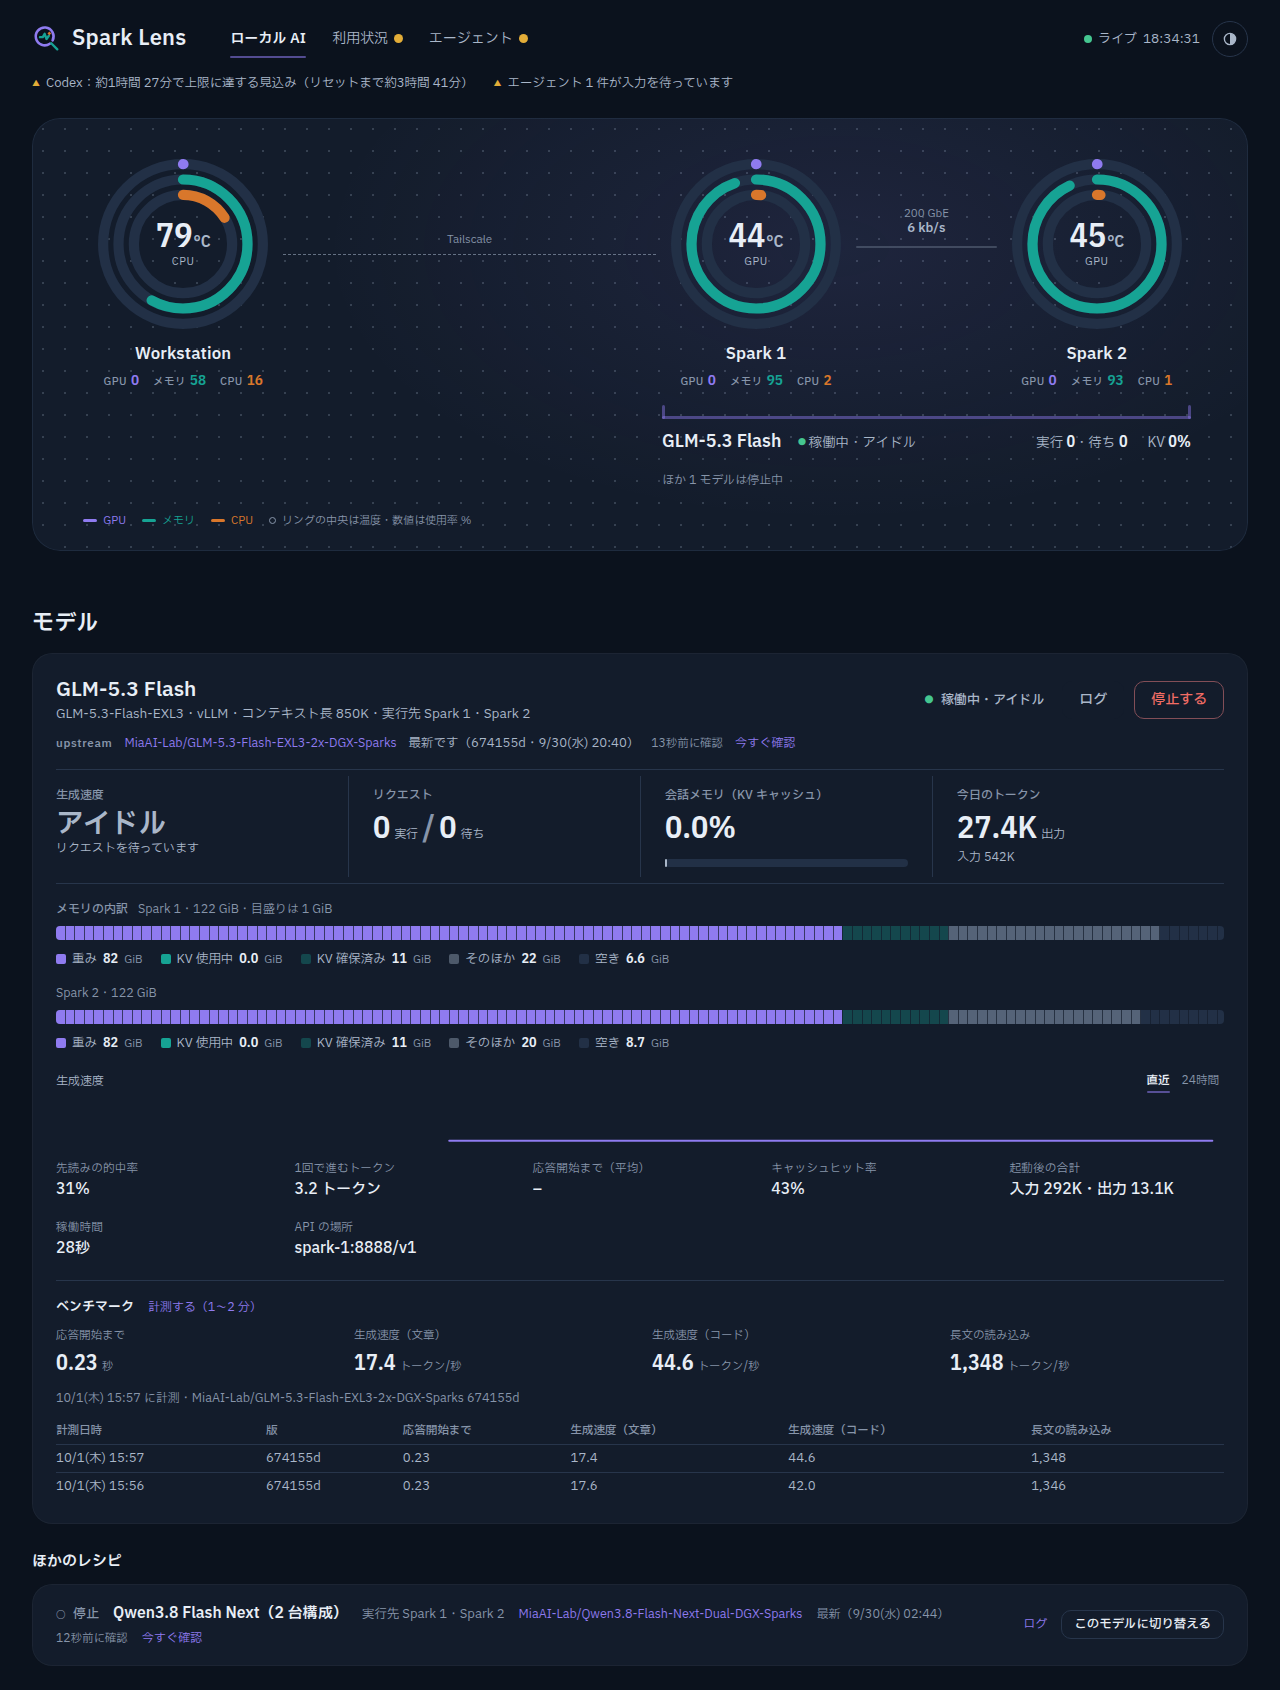
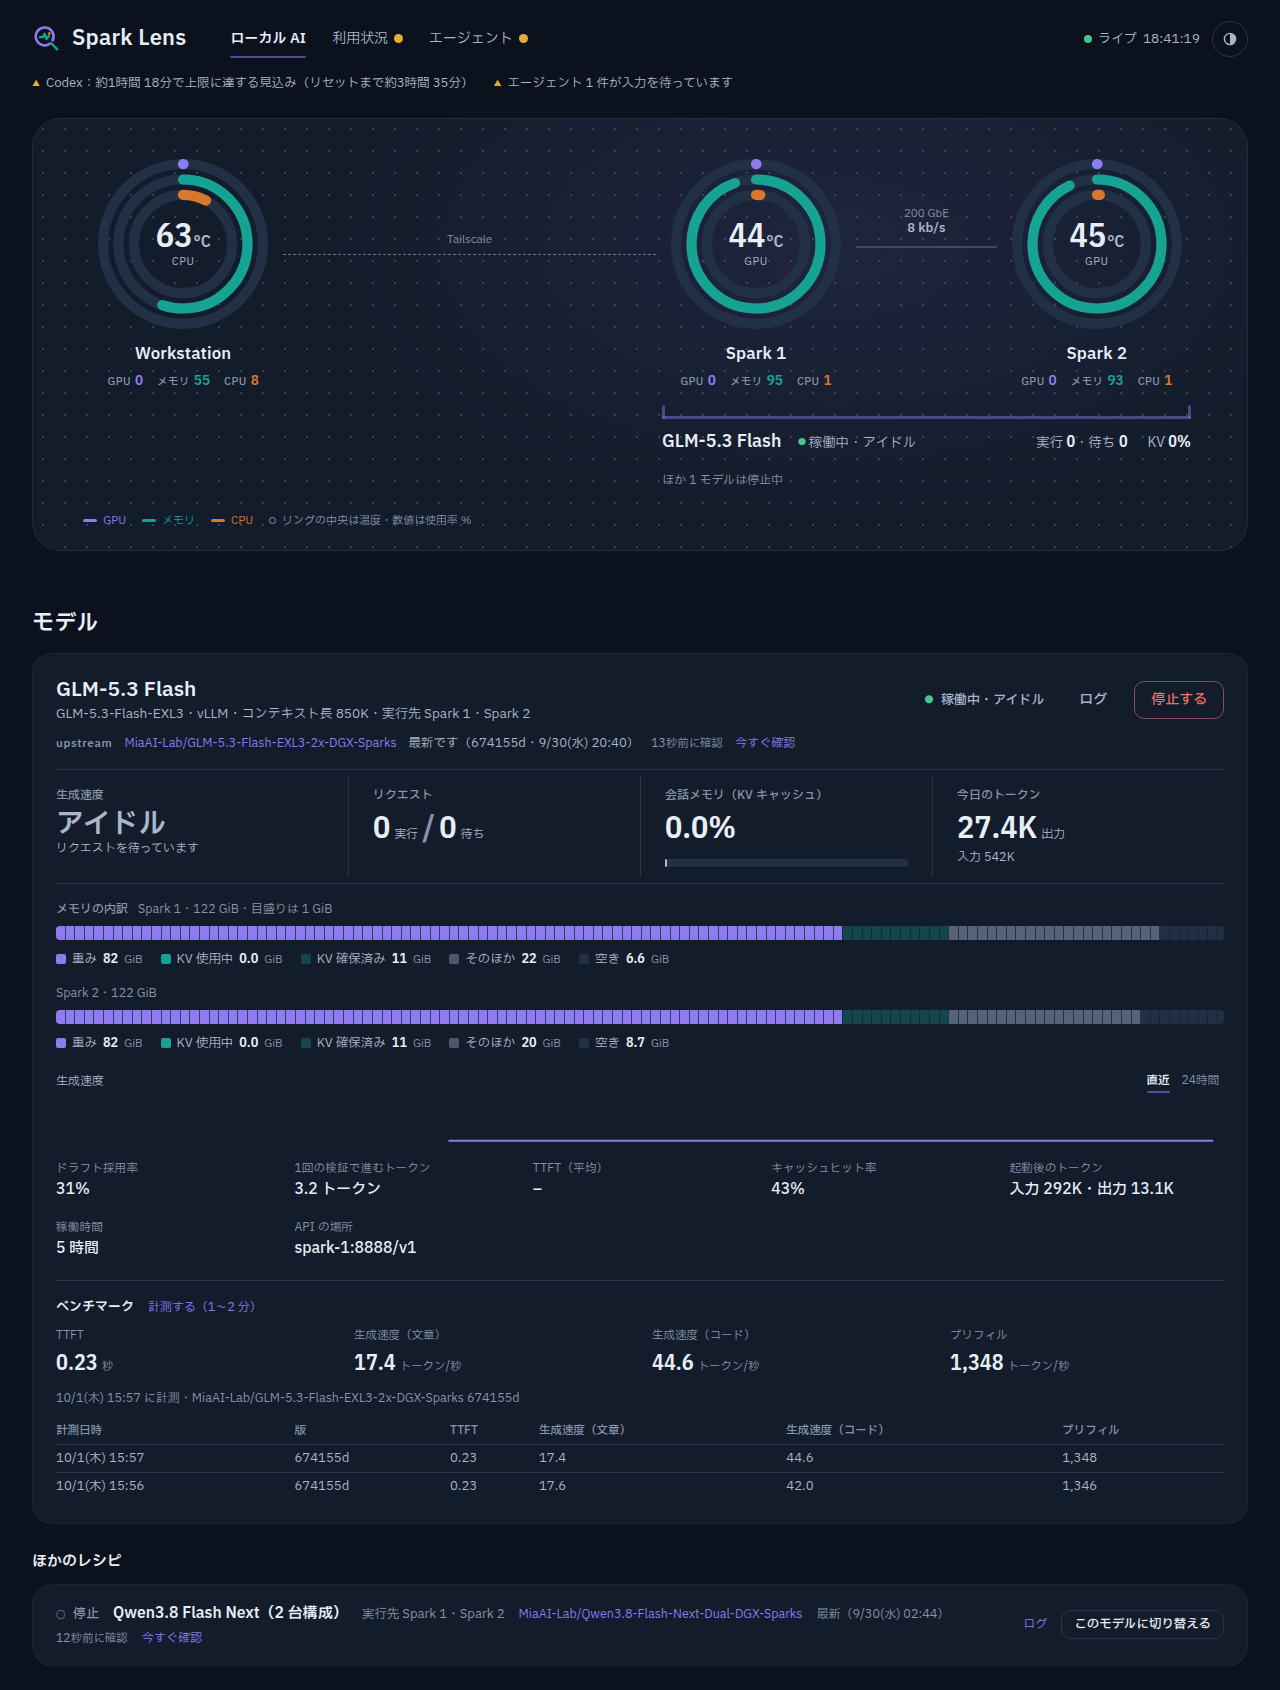
Restore the established metric names; Prefill and TTFT in benchmarks; model uptime from Docker

diff --git a/web/src/components/LlmPanel.tsx b/web/src/components/LlmPanel.tsx
@@ -1,5 +1,5 @@
 import type { BenchState, HostSnapshot, LlmSnapshot, RecipeSnapshot } from "../../../server/types.ts";
-import { ago, count, duration, pct, shortHost } from "../format.ts";
+import { ago, containerUptime, count, duration, pct, shortHost } from "../format.ts";
 import { llmStatus } from "../status.ts";
 import { levelFor, Meter } from "./Meter.tsx";
 import { RecipeControls } from "./RecipeCard.tsx";
@@ -141,16 +141,23 @@ export function LlmPanel({
           />
 
           <dl className="factline">
-            {spec && <Fact label="先読みの的中率" value={spec.acceptRate === null ? "–" : pct(spec.acceptRate * 100)} />}
-            {spec && <Fact label="1回で進むトークン" value={spec.meanLength === null ? "–" : `${spec.meanLength.toFixed(1)} トークン`} />}
-            {spec && running && <Fact label="先読み / 的中" value={`${rate(spec.draftTokensPerSec)} / ${rate(spec.acceptedTokensPerSec)} トークン/秒`} />}
-            <Fact label="応答開始まで（平均）" value={llm.ttftSec === null ? "–" : `${llm.ttftSec.toFixed(2)} 秒`} />
+            {spec && <Fact label="ドラフト採用率" value={spec.acceptRate === null ? "–" : pct(spec.acceptRate * 100)} />}
+            {spec && <Fact label="1回の検証で進むトークン" value={spec.meanLength === null ? "–" : `${spec.meanLength.toFixed(1)} トークン`} />}
+            {spec && running && <Fact label="ドラフト / 採用" value={`${rate(spec.draftTokensPerSec)} / ${rate(spec.acceptedTokensPerSec)} トークン/秒`} />}
+            <Fact label="TTFT（平均）" value={llm.ttftSec === null ? "–" : `${llm.ttftSec.toFixed(2)} 秒`} />
             <Fact label="キャッシュヒット率" value={llm.prefixCacheHitRate === null ? "–" : pct(llm.prefixCacheHitRate * 100)} />
             <Fact
-              label="起動後の合計"
+              label="起動後のトークン"
               value={llm.tokensTotal ? `入力 ${count(llm.tokensTotal.prompt)}・出力 ${count(llm.tokensTotal.generation)}` : "–"}
             />
-            <Fact label="稼働時間" value={llm.upSince ? duration((now - llm.upSince) / 1000) : "–"} />
+            {/* Docker knows when the model started; the dashboard only knows since it last restarted. */}
+            <Fact
+              label="稼働時間"
+              value={
+                llm.containers.map((c) => containerUptime(c.status)).find(Boolean) ??
+                (llm.upSince ? duration((now - llm.upSince) / 1000) : "–")
+              }
+            />
             <Fact label="API の場所" value={`${shortHost(llm.baseUrl)}/v1`} />
           </dl>
 

diff --git a/web/src/components/BenchPanel.tsx b/web/src/components/BenchPanel.tsx
@@ -5,10 +5,10 @@ import { shortDate } from "../format.ts";
 type Key = BenchCase["key"];
 
 const COLUMNS: { key: Key; label: string; unit: string; pick: (c: BenchCase) => number | null; better: "low" | "high" }[] = [
-  { key: "ttft", label: "応答開始まで", unit: "秒", pick: (c) => (c.ttftMs === null ? null : c.ttftMs / 1000), better: "low" },
+  { key: "ttft", label: "TTFT", unit: "秒", pick: (c) => (c.ttftMs === null ? null : c.ttftMs / 1000), better: "low" },
   { key: "prose", label: "生成速度（文章）", unit: "トークン/秒", pick: (c) => c.decodeTps, better: "high" },
   { key: "code", label: "生成速度（コード）", unit: "トークン/秒", pick: (c) => c.decodeTps, better: "high" },
-  { key: "prefill", label: "長文の読み込み", unit: "トークン/秒", pick: (c) => c.prefillTps, better: "high" },
+  { key: "prefill", label: "プリフィル", unit: "トークン/秒", pick: (c) => c.prefillTps, better: "high" },
 ];
 
 function value(run: BenchRun | undefined, key: Key): number | null {

diff --git a/web/src/format.ts b/web/src/format.ts
@@ -65,6 +65,12 @@ export function dockerStatus(status: string): string {
   return status;
 }
 
+/** How long a running container has been up, from Docker's own status ("4 時間"), or null. */
+export function containerUptime(status: string): string | null {
+  const text = dockerStatus(status);
+  return text.startsWith("稼働 ") ? text.slice(3).replace(/（異常）$/, "") : null;
+}
+
 /** "3日 4時間", "2時間 5分", "40秒" */
 export function duration(seconds: number | null | undefined): string {
   if (seconds === null || seconds === undefined || seconds < 0) return "–";

diff --git a/server/bench.ts b/server/bench.ts
@@ -20,7 +20,7 @@ const FILLER = Array.from(
 ).join(" ");
 
 export const CASES: Case[] = [
-  { key: "ttft", label: "応答開始まで", prompt: "Reply with the single word OK.", maxTokens: 8 },
+  { key: "ttft", label: "TTFT", prompt: "Reply with the single word OK.", maxTokens: 8 },
   {
     key: "prose",
     label: "文章の生成",
@@ -35,7 +35,7 @@ export const CASES: Case[] = [
   },
   {
     key: "prefill",
-    label: "長文の読み込み",
+    label: "プリフィル",
     prompt: `${FILLER}\n\nSummarise the text above in one sentence.`,
     maxTokens: 32,
   },

diff --git a/web/src/format.test.ts b/web/src/format.test.ts
@@ -18,3 +18,10 @@ test("dockerStatus translates the common shapes", () => {
   assert.equal(dockerStatus("Exited (143) 2 days ago"), "停止（2 日前・終了コード 143）");
   assert.equal(dockerStatus("Created"), "Created");
 });
+
+test("containerUptime reads Docker's own uptime", async () => {
+  const { containerUptime } = await import("./format.ts");
+  assert.equal(containerUptime("Up 4 hours"), "4 時間");
+  assert.equal(containerUptime("Up 2 days (unhealthy)"), "2 日");
+  assert.equal(containerUptime("Exited (0) 3 days ago"), null);
+});

diff --git a/web/src/components/MachineCard.tsx b/web/src/components/MachineCard.tsx
@@ -196,7 +196,7 @@ export function MachineCard({ host, now }: { host: HostSnapshot; now: number }) 
       )}
 
       <p className="machine__foot">
-        {[host.os, host.cpuModel, host.latencyMs !== null ? `応答 ${host.latencyMs} ms` : null].filter(Boolean).join("・")}
+        {[host.os, host.cpuModel, host.latencyMs !== null ? `監視の応答 ${host.latencyMs} ms` : null].filter(Boolean).join("・")}
       </p>
     </article>
   );
